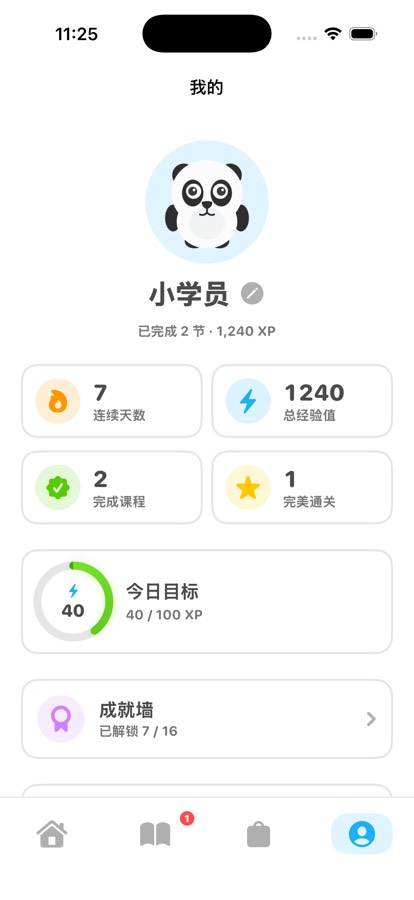
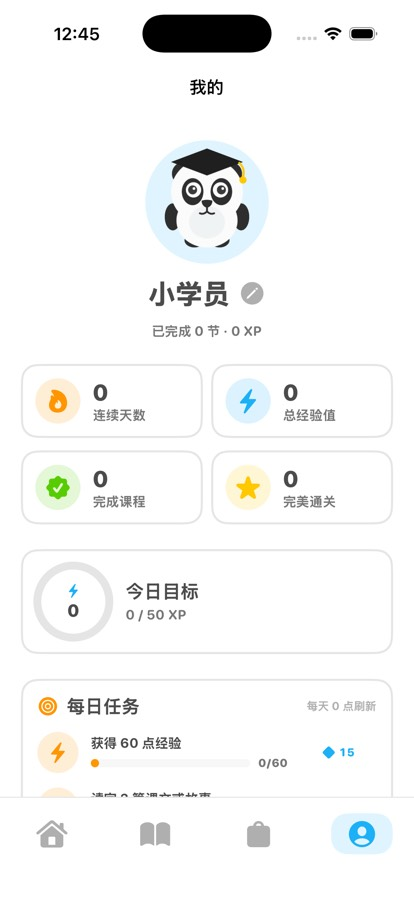
docs: 新增 iOS UX 截图总览页，并更新过时的商店 / 我的截图
- docs/ios-ux-gallery.html：12 张实机截图 + 说明，分「核心闭环 / 内容与阅读 /
  账户与留存 / 主题」四组，支持点击放大、深浅色自适应
- 图片以文件方式引用而非 base64 内嵌：HTML 从 509KB 降到 11KB，图片单独存放，
  重新生成时 git diff 不会整块翻动
- 更新已过时的截图：商店（改版后为实时预览，不再是灰色占位图标）、
  我的（新增每日任务与本周报告）
- 新增 7 张：首次引导 / 开始气泡 / 答题界面 / 课文听读列表 / 阅读器 /
  错题本 / 每日任务与周报
- README 的 iOS 预览扩为两行 8 张，并链接到总览页

页脚记录了截图的重新生成方式（ScreenshotTests 或 -uitest + simctl）。

diff --git a/docs/ios-ux-gallery.html b/docs/ios-ux-gallery.html
@@ -1,0 +1,175 @@
+<!doctype html>
+<html lang="zh-CN">
+<head>
+<meta charset="utf-8">
+<meta name="viewport" content="width=device-width, initial-scale=1">
+<title>课本学习 iOS · UX 截图总览</title>
+<style>
+  :root{
+    --feather:#58CC02; --treefrog:#58A700;
+    --ground:#F4F5F2; --surface:#FFFFFF; --ink:#3F4A3C; --muted:#79806F; --line:#E3E6DE;
+    --ledge:var(--treefrog); --shadow:0 1px 2px rgba(40,50,35,.05); --r:18px;
+    --f-round: ui-rounded, "SF Pro Rounded", "PingFang SC", system-ui, -apple-system, sans-serif;
+    --f-mono: ui-monospace, SFMono-Regular, "SF Mono", Menlo, monospace;
+  }
+  @media (prefers-color-scheme: dark){
+    :root{
+      --ground:#131F24; --surface:#202F36; --ink:#F2F6F7; --muted:#93A7AF; --line:#37464F;
+      --ledge:#3E7C05; --shadow:0 1px 2px rgba(0,0,0,.35);
+    }
+  }
+  *{box-sizing:border-box}
+  body{margin:0;background:var(--ground);color:var(--ink);font-family:var(--f-round);
+       font-size:16px;line-height:1.6;-webkit-font-smoothing:antialiased}
+  .wrap{max-width:1140px;margin:0 auto;padding:48px 24px 80px}
+
+  header{display:flex;flex-direction:column;gap:16px;padding-bottom:28px;border-bottom:2px solid var(--line)}
+  .eyebrow{font-family:var(--f-mono);font-size:12px;letter-spacing:.14em;text-transform:uppercase;
+           color:var(--feather);font-weight:600}
+  h1{margin:0;font-size:clamp(30px,4.6vw,46px);line-height:1.12;font-weight:800;
+     letter-spacing:-.02em;text-wrap:balance}
+  .lede{margin:0;max-width:60ch;color:var(--muted);font-size:17px}
+  .meta{display:flex;flex-wrap:wrap;gap:8px;margin-top:4px}
+  .chip{font-family:var(--f-mono);font-size:12.5px;color:var(--muted);background:var(--surface);
+        border:1.5px solid var(--line);border-radius:999px;padding:5px 12px;white-space:nowrap}
+  .chip b{color:var(--ink);font-weight:600}
+
+  section{margin-top:52px}
+  .sec-head{display:flex;align-items:baseline;gap:12px;margin-bottom:20px}
+  .sec-head h2{margin:0;font-size:21px;font-weight:800;letter-spacing:-.01em}
+  .sec-head .count{font-family:var(--f-mono);font-size:12.5px;color:var(--muted)}
+  .sec-head .rule{flex:1;height:2px;background:var(--line);border-radius:2px}
+
+  .grid{display:grid;gap:26px;grid-template-columns:repeat(auto-fill,minmax(232px,1fr))}
+  figure{margin:0;display:flex;flex-direction:column;gap:10px}
+  .shot{display:block;width:100%;padding:0;cursor:zoom-in;background:none;border:none;
+        border-radius:var(--r);font:inherit;color:inherit;text-align:left}
+  .shot .frame{border-radius:var(--r);overflow:hidden;background:var(--surface);
+               border:2px solid var(--line);border-bottom:6px solid var(--ledge);
+               box-shadow:var(--shadow);transition:transform .16s ease,border-bottom-width .16s ease}
+  .shot img{display:block;width:100%;height:auto;aspect-ratio:414/900;object-fit:cover}
+  .shot:hover .frame{transform:translateY(-3px);border-bottom-width:9px}
+  .shot:focus-visible{outline:none}
+  .shot:focus-visible .frame{outline:3px solid var(--feather);outline-offset:3px}
+  @media (prefers-reduced-motion: reduce){
+    .shot .frame{transition:none} .shot:hover .frame{transform:none;border-bottom-width:6px}
+  }
+  figcaption{display:flex;flex-direction:column;gap:3px}
+  .cap-t{font-weight:700;font-size:15.5px;letter-spacing:-.01em}
+  .cap-n{font-size:13.5px;color:var(--muted);line-height:1.5}
+
+  footer{margin-top:60px;padding-top:26px;border-top:2px solid var(--line);
+         color:var(--muted);font-size:14px}
+  footer code{font-family:var(--f-mono);font-size:13px;color:var(--ink)}
+
+  .box{position:fixed;inset:0;display:none;place-items:center;z-index:50;
+       background:rgba(11,20,22,.9);padding:24px}
+  .box[open]{display:grid}
+  .box img{max-width:min(430px,92vw);max-height:92vh;border-radius:22px;
+           box-shadow:0 18px 50px rgba(0,0,0,.5)}
+  .box-cap{position:fixed;bottom:20px;left:50%;transform:translateX(-50%);
+           font-family:var(--f-mono);font-size:13px;color:#E6ECEE;background:rgba(0,0,0,.5);
+           padding:7px 15px;border-radius:999px;white-space:nowrap}
+  .box-x{position:fixed;top:18px;right:18px;width:42px;height:42px;border-radius:50%;
+         border:none;background:rgba(255,255,255,.14);color:#fff;font-size:20px;cursor:pointer;line-height:1}
+  .box-x:hover{background:rgba(255,255,255,.26)}
+</style>
+</head>
+<body>
+<div class="wrap">
+  <header>
+    <span class="eyebrow">iPhone 17 模拟器 · 实机截图</span>
+    <h1>课本学习 iOS · UX 截图总览</h1>
+    <p class="lede">
+      全端统一在一套设计系统上：圆体字、2px 描边卡片、立体下沿按钮、品牌绿。
+      以下均为实际运行界面，非设计稿。
+    </p>
+    <div class="meta">
+      <span class="chip">测试 <b>38 单元 · 11 UI</b></span>
+      <span class="chip">主题 <b>浅色为主 · 可选深色</b></span>
+      <span class="chip">吉祥物 <b>熊猫聪聪</b></span>
+    </div>
+  </header>
+
+  <section>
+    <div class="sec-head"><h2>核心学习闭环</h2><span class="count">5 屏</span><span class="rule"></span></div>
+    <div class="grid">
+      <figure><button class="shot" data-cap="首次引导"><span class="frame"><img src="screenshots/ios/onboarding.jpg" alt="首次引导" loading="lazy"></span></button>
+        <figcaption><span class="cap-t">首次引导</span><span class="cap-n">问候 → 选年级课本 → 设定每日目标，新用户不会冷启动落在随机课本上。</span></figcaption></figure>
+      <figure><button class="shot" data-cap="首页 · 学习路径"><span class="frame"><img src="screenshots/ios/home.jpg" alt="首页学习路径" loading="lazy"></span></button>
+        <figcaption><span class="cap-t">首页 · 学习路径</span><span class="cap-n">顶部 HUD：学科、连胜、宝石、爱心、每日目标环；下方蛇形路径与阅读入口。</span></figcaption></figure>
+      <figure><button class="shot" data-cap="开始气泡"><span class="frame"><img src="screenshots/ios/start-popup.jpg" alt="开始气泡" loading="lazy"></span></button>
+        <figcaption><span class="cap-t">开始气泡</span><span class="cap-n">点任意节点弹出，小三角指向节点本身，显示第几节与可得经验。</span></figcaption></figure>
+      <figure><button class="shot" data-cap="答题界面"><span class="frame"><img src="screenshots/ios/lesson.jpg" alt="答题界面" loading="lazy"></span></button>
+        <figcaption><span class="cap-t">答题界面</span><span class="cap-n">未作答时「检查」为禁用灰态；选项卡带 2px 描边与立体下沿。</span></figcaption></figure>
+      <figure><button class="shot" data-cap="答对反馈"><span class="frame"><img src="screenshots/ios/feedback.jpg" alt="答对反馈" loading="lazy"></span></button>
+        <figcaption><span class="cap-t">答对反馈</span><span class="cap-n">卡片变绿带对勾，底部滑出熊猫 + 鼓励语 + 解析 + 朗读。答错则回炉重练。</span></figcaption></figure>
+    </div>
+  </section>
+
+  <section>
+    <div class="sec-head"><h2>内容与阅读</h2><span class="count">2 屏</span><span class="rule"></span></div>
+    <div class="grid">
+      <figure><button class="shot" data-cap="课文听读列表"><span class="frame"><img src="screenshots/ios/reading-list.jpg" alt="课文听读列表" loading="lazy"></span></button>
+        <figcaption><span class="cap-t">课文听读列表</span><span class="cap-n">插画卡片、体裁与句数、经验奖励标；读完显示皇冠。</span></figcaption></figure>
+      <figure><button class="shot" data-cap="阅读器"><span class="frame"><img src="screenshots/ios/reader.jpg" alt="阅读器" loading="lazy"></span></button>
+        <figcaption><span class="cap-t">阅读器</span><span class="cap-n">「朗读全文」逐句高亮并自动滚动，舒适排版，读完奖励经验值。</span></figcaption></figure>
+    </div>
+  </section>
+
+  <section>
+    <div class="sec-head"><h2>账户 · 商店 · 留存</h2><span class="count">4 屏</span><span class="rule"></span></div>
+    <div class="grid">
+      <figure><button class="shot" data-cap="商店"><span class="frame"><img src="screenshots/ios/shop.jpg" alt="商店" loading="lazy"></span></button>
+        <figcaption><span class="cap-t">商店</span><span class="cap-n">每个格子都是实时预览——皮肤格是戴着该配饰的聪聪本人，主题格是真实配色。</span></figcaption></figure>
+      <figure><button class="shot" data-cap="错题本"><span class="frame"><img src="screenshots/ios/review.jpg" alt="错题本" loading="lazy"></span></button>
+        <figcaption><span class="cap-t">错题本</span><span class="cap-n">熊猫 hero 卡、开始复习并奖励经验、待复习列表。复习不扣爱心。</span></figcaption></figure>
+      <figure><button class="shot" data-cap="我的"><span class="frame"><img src="screenshots/ios/profile.jpg" alt="我的" loading="lazy"></span></button>
+        <figcaption><span class="cap-t">我的</span><span class="cap-n">装备的皮肤直接戴在头像上；连胜 / 经验 / 完成 / 完美四格与每日目标环。</span></figcaption></figure>
+      <figure><button class="shot" data-cap="每日任务 & 本周报告"><span class="frame"><img src="screenshots/ios/profile-quests.jpg" alt="每日任务与本周报告" loading="lazy"></span></button>
+        <figcaption><span class="cap-t">每日任务 &amp; 本周报告</span><span class="cap-n">每天 3 个日期种子生成的任务，可领宝石；近 7 天经验柱状图与上周对比。</span></figcaption></figure>
+    </div>
+  </section>
+
+  <section>
+    <div class="sec-head"><h2>主题</h2><span class="count">1 屏</span><span class="rule"></span></div>
+    <div class="grid">
+      <figure><button class="shot" data-cap="深色模式"><span class="frame"><img src="screenshots/ios/dark.jpg" alt="深色模式" loading="lazy"></span></button>
+        <figcaption><span class="cap-t">深色模式</span><span class="cap-n">同一套语义色令牌自动切换，绿色主色与立体质感全保留，无需维护第二套 UI。</span></figcaption></figure>
+    </div>
+  </section>
+
+  <footer>
+    截图源文件位于 <code>docs/screenshots/ios/</code>。重新生成方式：用
+    <code>ChinaTextbookStudyUITests</code> 里的 <code>ScreenshotTests</code>
+    走一遍主要界面，或以 <code>-uitest</code> 启动参数运行 App 后用
+    <code>xcrun simctl io booted screenshot</code> 抓取。
+  </footer>
+</div>
+
+<div class="box" id="box" role="dialog" aria-modal="true" aria-label="放大查看">
+  <button class="box-x" id="boxX" aria-label="关闭">✕</button>
+  <img id="boxImg" alt="">
+  <span class="box-cap" id="boxCap"></span>
+</div>
+
+<script>
+  (function(){
+    var box=document.getElementById('box'), img=document.getElementById('boxImg'),
+        cap=document.getElementById('boxCap'), x=document.getElementById('boxX'), last=null;
+    function open(btn){
+      var src=btn.querySelector('img');
+      img.src=src.getAttribute('src'); img.alt=src.alt; cap.textContent=btn.dataset.cap;
+      box.setAttribute('open',''); last=btn; x.focus();
+    }
+    function close(){ box.removeAttribute('open'); img.removeAttribute('src'); if(last) last.focus(); }
+    document.querySelectorAll('.shot').forEach(function(b){
+      b.addEventListener('click', function(){ open(b); });
+    });
+    x.addEventListener('click', close);
+    box.addEventListener('click', function(e){ if(e.target===box||e.target===img) close(); });
+    document.addEventListener('keydown', function(e){ if(e.key==='Escape'&&box.hasAttribute('open')) close(); });
+  })();
+</script>
+</body>
+</html>

diff --git a/README.md b/README.md
@@ -51,13 +51,20 @@
 
 <table>
   <tr>
-    <td align="center"><img src="docs/screenshots/ios/home.jpg" width="190" /><br/><b>学习路径</b></td>
-    <td align="center"><img src="docs/screenshots/ios/feedback.jpg" width="190" /><br/><b>答题反馈</b></td>
-    <td align="center"><img src="docs/screenshots/ios/shop.jpg" width="190" /><br/><b>商店</b></td>
-    <td align="center"><img src="docs/screenshots/ios/profile.jpg" width="190" /><br/><b>我的</b></td>
-    <td align="center"><img src="docs/screenshots/ios/dark.jpg" width="190" /><br/><b>深色模式</b></td>
+    <td align="center"><img src="docs/screenshots/ios/home.jpg" width="180" /><br/><b>学习路径</b></td>
+    <td align="center"><img src="docs/screenshots/ios/feedback.jpg" width="180" /><br/><b>答题反馈</b></td>
+    <td align="center"><img src="docs/screenshots/ios/shop.jpg" width="180" /><br/><b>商店</b></td>
+    <td align="center"><img src="docs/screenshots/ios/profile.jpg" width="180" /><br/><b>我的</b></td>
+  </tr>
+  <tr>
+    <td align="center"><img src="docs/screenshots/ios/reader.jpg" width="180" /><br/><b>课文听读</b></td>
+    <td align="center"><img src="docs/screenshots/ios/review.jpg" width="180" /><br/><b>错题本</b></td>
+    <td align="center"><img src="docs/screenshots/ios/profile-quests.jpg" width="180" /><br/><b>每日任务 · 周报</b></td>
+    <td align="center"><img src="docs/screenshots/ios/dark.jpg" width="180" /><br/><b>深色模式</b></td>
   </tr>
 </table>
+
+> 全部 12 张界面截图与说明见 [`docs/ios-ux-gallery.html`](docs/ios-ux-gallery.html)（本地打开即可，支持点击放大）。
 
 ---
 
